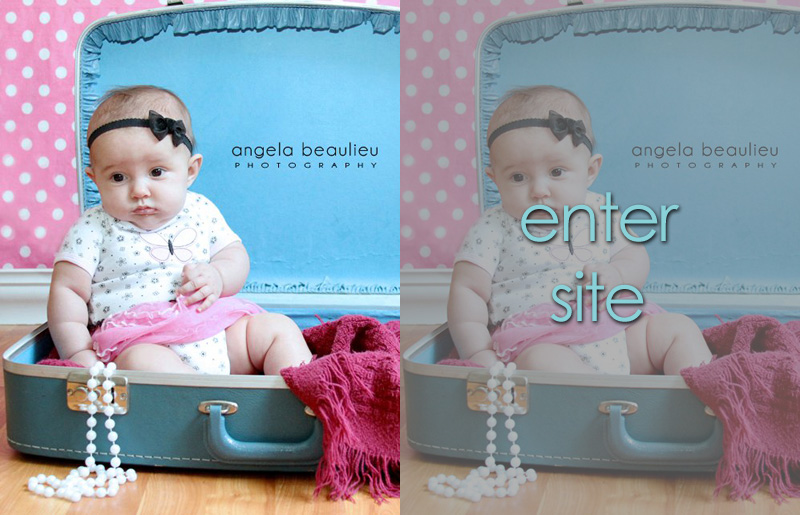
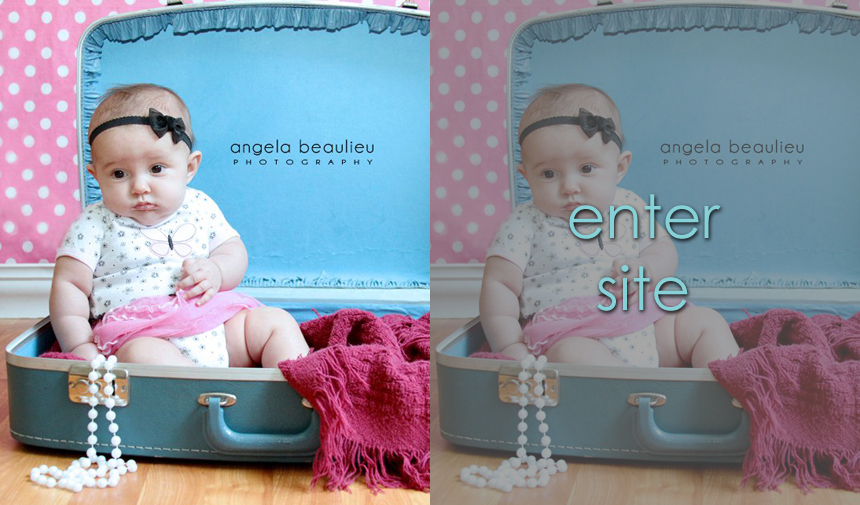
Finished session prices page styling, updated homepage images for proper width, removed Twitter widget from contact page, minor css changes site-wide.

diff --git a/master.css b/master.css
@@ -21,7 +21,7 @@ body { background:#fff; }
 #content.home #sub-content { float:left; background:#89d1d8; margin:0 auto; -moz-border-radius:10px; -webkit-border-radius:10px; border-radius:10px; padding: 10px; width: 890px; }
 #content #sub-content { float:left; background:#89d1d8; margin:0 auto; -moz-border-radius:10px; -webkit-border-radius:10px; border-radius:10px; padding: 10px; width: 890px; }
 #gallery { width:528px; margin:0 auto; }
-#copy { float:left; width:100%; background:#6AA0A7; -moz-border-radius:10px; -webkit-border-radius:10px; padding:15px; }
+#copy { float:left; background:#6AA0A7; -moz-border-radius:10px; -webkit-border-radius:10px; padding:15px; }
 body#blog #content { width:660px; float:left; }
 body#about-page #copy { width:560px; float:left; height:389px; }
 #sidebar { width:270px; padding:15px; float:right; background:#6AA0A7; -moz-border-radius:10px; -webkit-border-radius:10px; border-radius:10px; }
@@ -30,8 +30,8 @@ body#about-page #sidebar { width:259px; height:389px; }
 #footer { width:940px; margin: 0 auto 10px auto; clear:both; height:36px; }
 #content div.post { background:#2a2a2a; -moz-border-radius:10px; -webkit-border-radius:10px; border-radius:10px; padding:15px; margin-right:20px; margin-bottom:20px; float:left; width:610px; }
 #respond { background:#2a2a2a; float:left; -moz-border-radius:10px; -webkit-border-radius:10px; border-radius:10px; padding:15px; margin-right:20px; margin-top:20px; }
-.col-1, .col-2, .col-3, .col-4 { width:218px; float:left; padding:0 10px; border-left:1px solid #6F6F6F; min-height: 720px; }
-.col-4 { border-right:1px solid #6F6F6F; }
+.col-1, .col-2, .col-3, .col-4 { width:193px; float:left; padding:0 10px; border-left:1px solid #fff; min-height: 763px; }
+.col-4 { border-right:1px solid #fff; }
 #menu { width:821px; margin:0 auto; }
 
 /* Image Styles */
@@ -80,30 +80,31 @@ body#galleries-page.galleries #content h2 { float:none; }
 #copy h2 { color:#fff; font-family: "Century Gothic",Helvetica,arial,sans-serif; line-height: 23px; margin-bottom:6px; }
 p.footer { color: #bbb; float: right; padding: 20px 7px 0 0; text-align: right; }
 #sidebar h2 { color:#fff; }
-strong.author, span.asterisk, span.pink { color:#c94185; }
-span.price { color:#6198e0; }
-#copy h3 { color:#c94185; }
+strong.author, span.pink { color:#fff; }
+span.asterisk { color:#89d1d8; }
+span.price { color:#89d1d8; font-weight:bold; }
+#copy h3 { font-family:"Century Gothic", Helvetica, arial, sans-serif; color:#89d1d8; text-shadow:1px 1px #000; }
 #copy p { color:#000; }
 .entry p { color:#ccc; }
 h2.pagetitle { background:#2a2a2a; -moz-border-radius:10px; -webkit-border-radius:10px; border-radius:10px; padding:15px; margin-right:20px; margin-bottom:20px; }
 #content .post h2 { color:#6198e0; border-bottom:1px dotted #6198e0; text-decoration:none; }
 h3#comments { background:#2a2a2a; -moz-border-radius-topleft:10px; -webkit-border-top-left-radius:10px; -moz-border-radius-topright:10px; -webkit-border-top-right-radius:10px; padding:15px 15px 0 15px; margin-right:20px; color:#ccc; }
 #respond h3 { color:#ccc; }
-#copy ul { list-style:disc; list-style-position:inside; color:#ccc; font-weight:bold; }
-#copy li { text-indent:20px; font-weight:normal; }
+#copy ul { font-family:"Century Gothic", Helvetica, arial, sans-serif; list-style:disc; list-style-position:inside; color:#fff; font-weight:bold; }
+#copy li { font-size:14px; font-family:"Century Gothic", Helvetica, arial, sans-serif; text-indent:0px; font-weight:normal; }
 p.note { width:100%; float:left; }
 body#galleries-page #sub-content h2 { color:#fff; font-family: "Century Gothic",Helvetica,arial,sans-serif; line-height: 23px; margin-bottom:6px; }
 
 /* Contact Form Styles */
-#main form { display: block; width: 100%; padding: 25px 0 20px 0;}
+#main form { display: block; width: 508px; margin:0 auto; padding: 25px 0 20px 0;}
 #main form fieldset { display: block; position: relative; height: 20px; margin-bottom: 6px; border:none; padding:10px 0; }
-#main form fieldset div.errormessage { font-size:13px; color: #242424; background: #6198E0; padding: 0 8px; position: absolute; left: 515px; top:1px; height:34px; width:170px; }
+#main form fieldset div.errormessage { font-size:12px; line-height:32px; color: #fff; background: #6aa0a7; padding: 0 8px; position: absolute; left: 515px; top:1px; height:34px; width:170px; font-family: "Century Gothic",Helvetica,arial,sans-serif; }
 #main form fieldset.message { position: relative; height: 150px; margin-bottom: 8px; }
 #main form fieldset label { font-size: 22px; color:#646464; position: absolute; left: 0; top: 0; line-height: 36px; width: 90px; }
 #main form fieldset label.submitter { font-size: 1.5em; display: none; }
 #main form fieldset input { position: absolute; left: 95px; top: 0; line-height: 22px; height:24px; width: 400px; border: 1px solid #242424; padding: 5px; background-color: #fff; font:16px Georgia,Times,'Times New Roman',serif; color:#313131;}
-#main form fieldset input#submitter {font-size: 26px; background:#c94185; border:none; padding:5px; color:#fff; cursor:pointer; width:146px; height:42px; float:left; }
-#main form fieldset input#submitter:hover {font-size: 26px; background:#6198E0; border:none; padding:5px; color:#fff; cursor:pointer; width:146px; height:42px; float:left; }
+#main form fieldset input#submitter {font-size: 26px; background:#6aa0a7; border:none; padding:5px; color:#fff; cursor:pointer; width:146px; height:42px; float:left; }
+#main form fieldset input#submitter:hover {font-size: 26px; background:#4e8890; border:none; padding:5px; color:#fff; cursor:pointer; width:146px; height:42px; float:left; }
 #main form fieldset textarea { position: absolute; left: 95px; top: 0; width: 400px; height: 145px; border: 1px solid #383531; padding: 5px; background-color: #fff; font: 16px Georgia,Times,'Times New Roman',serif; color:#313131; }
 #main form fieldset input:focus, form fieldset textarea:focus { border: 1px solid #193441; } /* Needs emulation in IE 6 and testing in IE 7 */
 #main p.success { color:#2d8a43; font-weight: bolder; }
@@ -125,10 +126,10 @@ a.modelmayhem:hover { background-position:0 2px; }
 a.mail { background:url(images/email_32.png) no-repeat 0 -32px; }
 a.mail:hover { background-position:0 2px; }
 
-#content #sub-content a.facebook-galleries { background:url(images/facebook-galleries.jpg) no-repeat 0 0; width:390px; height:505px; float:left; -moz-border-radius:10px; -webkit-border-radius:10px; border-radius:10px; border:5px solid #fff; }
-#content #sub-content a.facebook-galleries:hover { background-position:-400px 0; }
-#content #sub-content a.enter-site { background:url(images/enter-site.jpg) no-repeat 0 0; width:390px; height:505px; float:left; margin-right:9px; -moz-border-radius:10px; -webkit-border-radius:10px; border-radius:10px; border:5px solid #fff; }
-#content #sub-content a.enter-site:hover { background-position:-400px 0; }
+#content #sub-content a.facebook-galleries { background:url(images/facebook-galleries.jpg) no-repeat 0 0; width:430px; height:505px; float:left; -moz-border-radius:10px; -webkit-border-radius:10px; border-radius:10px; border:5px solid #fff; }
+#content #sub-content a.facebook-galleries:hover { background-position:-430px 0; }
+#content #sub-content a.enter-site { background:url(images/enter-site.jpg) no-repeat 0 0; width:430px; height:505px; float:left; margin-right:10px; -moz-border-radius:10px; -webkit-border-radius:10px; border-radius:10px; border:5px solid #fff; }
+#content #sub-content a.enter-site:hover { background-position:-430px 0; }
 
 /* Blog Styles */
 body#blog #sidebar ul { list-style:none; text-indent:0; }
@@ -152,9 +153,9 @@ body.single .navigation { color:#c94185; float:left; width:610px; -moz-border-ra
 #content #gallery a img { border:5px solid #fff; }
 #content #gallery a { float:left; display:block; color:#666; padding:0 20px 0 20px; margin-bottom:20px; text-decoration:none; outline-style:none; }
 #content #gallery a:hover { color:#58365e; outline-style:none; }
-#content #gallery a:hover img { border:5px solid #c94185; }
-#content #gallery span.caption { font-size:10px; text-transform:uppercase; padding:0; display:block; }
-#content #gallery a:hover span.caption { font-size:10px; text-transform:uppercase; padding:0; display:block; color:#c94185; }
+#content #gallery a:hover img { border:5px solid #6AA0A7; }
+#content #gallery span.caption { font-size:10px; text-transform:uppercase; padding:0; display:block; text-align:center; }
+#content #gallery a:hover span.caption { font-size:10px; text-transform:uppercase; padding:0; display:block; color:#6AA0A7; }
 body#home-page #content span.caption { font-size:10px; text-transform:uppercase; padding:0; display:none; float:left; }
 body#home-page #content .panel-one a:hover span.caption { font-size:10px; text-transform:uppercase; padding:0; display:block; color:#c94185; position:absolute; bottom:-20px; left:0; }
 body#home-page #content .panel-two a:hover span.caption, body#home-page #content .panel-three a:hover span.caption, body#home-page #content .panel-four a:hover span.caption, body#home-page #content .panel-five a:hover span.caption { font-size:10px; text-transform:uppercase; padding:0; display:block; color:#c94185; position:absolute; bottom:-20px; left:10px; }

diff --git a/session-prices/index.php b/session-prices/index.php
@@ -19,26 +19,28 @@ And I need this to be someplace on the pricing page:
 
 -->
 <?php require('../header.php') ?>
-	<div id="content">
-		<div id="copy">
+	<div id="wrapper-top"></div>
+		<div id="content">
+			<div id="sub-content">
+				<div id="copy">
 		<h2>Session Prices</h2>
 			<div class="col-1">
 				<h3>Wedding:</h3> 
 			
-				<ul>Jack & Rose:
+				<ul>Jack &amp; Rose:
 				    <li>Planning Session</li>
 				    <li>6 Hours Coverage<span class="asterisk">*</span></li>
-				    <li>DVD Of Images (with print release)<span class="asterisk">*</span></li>
+				    <li>DVD Of Images<br />(with print release)<span class="asterisk">*</span></li>
 				    <li>Time/Travel/Talent<span class="asterisk">*</span></li>
 				</ul>
 				
 				<p>Package: <span class="price">$850.00</span></p>
 				
-				<ul>Romeo & Juliet:
+				<ul>Romeo &amp; Juliet:
 				    <li>Planning Session</li>
 					<li>Engagement Session</li>
 				    <li>8+ Hours Coverage<span class="asterisk">*</span></li>
-				    <li>DVD Of Images (with print release)<span class="asterisk">*</span></li>
+				    <li>DVD Of Images<br />(with print release)<span class="asterisk">*</span></li>
 				    <li>Time/Travel/Talent<span class="asterisk">*</span></li>
 				</ul>
 				
@@ -48,10 +50,10 @@ And I need this to be someplace on the pricing page:
 								
 				<h3>Engagement:</h3>
 				<ul>
-					<li>On location up to 2 hours</li>
+					<li>On location up to 2 hrs</li>
 				  	<li>Unlimited outfits/poses</li>
 				  	<li>Up to 2 locations (optional)</li>
-					<li>Post processing/retouching</li>
+					<li>Post process/retouch</li>
 					<li>30 images on cd</li>
 					<li>Time/travel/talent</li>
 				</ul>
@@ -62,10 +64,10 @@ And I need this to be someplace on the pricing page:
 			<div class="col-2">
 				<h3>Maternity:</h3>
 				<ul>
-					<li>On location and/or studio time up to 2 hours</li>
+					<li>On location and/or<br />studio time up to 2 hours</li>
 				  	<li>Unlimited outfits/poses</li>
 				  	<li>Up to 2 locations (optional)</li>
-					<li>Post processing/retouching</li>
+					<li>Post process/retouch</li>
 					<li>30 images on cd</li>
 				</ul>
 				
@@ -76,84 +78,86 @@ And I need this to be someplace on the pricing page:
 				<h3>Newborn:</h3>
 				
 				<ul>
-				  <li>On location and/or studio time up to 4 hours (newborns take time to work with)</li>
+				  <li>On location and/or<br />studio time up to 4 hours<br />(newborns take time to work with)</li>
 				  <li>Unlimited outfits/poses</li>
-				  <li>Post processing/retouching</li>
+				  <li>Post process/retouch</li>
 				  <li>20 images on cd</li>
 				</ul>
 				
 				<p>Package: <span class="price">$200.00</span></p>
 				
-				<p><span class="asterisk">***</span>Newborns sessions can last up to 4 or more hours. There needs to be plenty of time for feedings, naps, comforting, changing and so on.</p>
+				<p><span class="asterisk">***</span>Newborn sessions can last up to 4 hours or more. There needs to be plenty of time for feedings, naps, comforting, changing and so on.</p>
 				
-			</div>
-			<div class="col-3">
 				<h3>Family:</h3>
 
 				<ul>
-					<li>On location up to 2 hours</li>
+					<li>On location up to 2 hrs</li>
 					<li>Unlimited outfits/poses</li>
 					<li>Up to 2 locations (optional)</li>
-					<li>Post processing/retouching</li>
+					<li>Post process/retouch</li>
 					<li>30 images on cd</li>
 					<li>Time/travel/talent</li>
 				</ul>
 
-				<p>Package: <span class="price">$125</span> | 6+ members: <span class="price">$150</span></p>
-
+				<p>Package: <span class="price">$125</span><br />6+ members: <span class="price">$150</span></p>
+				
+			</div>
+			<div class="col-3">
+				
 				<h3>Children ages 5-12:</h3>
 
 				<ul>
-					<li>On location up to 2 hours</li>
+					<li>On location up to 2 hrs</li>
 					<li>Unlimited outfits/poses</li>
 					<li>Up to 2 locations (optional)</li>
-					<li>Post processing/retouching</li>
+					<li>Post process/retouch</li>
 					<li>30 images on cd</li>
 					<li>Time/travel/talent</li>
 				</ul>
 				
-				<p>Package: <span class="price">$125</span> (one child) | Add <span class="price">$25</span> for each additional child.</p>
+				<p>Package: <span class="price">$125</span> (one child)<br />Add <span class="price">$25</span> for each additional child.</p>
 				
 				<h3>Babies 3mos-18mos:</h3>
 				<ul>
-					<li>On location and/or studio time up to 2 hours</li>
+					<li>On location and/or<br />studio time up to 2 hours</li>
 					<li>Unlimited outfits/poses</li>
 					<li>Up to 2 locations (optional)</li>
-					<li>Post processing/retouching</li>
+					<li>Post process/retouch</li>
 					<li>20 images on cd</li>
 				</ul>
 				
-				<p>Package: <span class="price">$150</span> | Add <span class="price">$25</span> for each additional child.</p>
+				<p>Package: <span class="price">$150</span><br />Add <span class="price">$25</span> for each additional child.</p>
+				
+				<h3>Toddlers 18mos-3yrs:</h3>
+				<ul>
+					<li>On location and/or<br />studio time up to 2 hours</li>
+					<li>Unlimited outfits/poses</li>
+					<li>Up to 2 locations (optional)</li>
+					<li>Post process/retouch</li>
+					<li>20 images on cd</li>
+				</ul>
+				<p>Package: <span class="price">$150</span><br />Add <span class="price">$25</span> for each additional child.</p>
 				
 			</div>
 			<div class="col-4">
-				<h3>Toddlers 18mos-3yrs:</h3>
-				<ul>
-					<li>On location and/or studio time up to 2 hours</li>
-					<li>Unlimited outfits/poses</li>
-					<li>Up to 2 locations (optional)</li>
-					<li>Post processing/retouching</li>
-					<li>20 images on cd</li>
-				</ul>
-				<p>Package: <span class="price">$150</span> | Add <span class="price">$25</span> for each additional child.</p>
 
 				<h3>Tiny people 3yrs-5yrs:</h3>
 				<ul>
-					<li>On location and/or studio time up to 2 hours</li>
+					<li>On location and/or<br />studio time up to 2 hours</li>
 					<li>Unlimited outfits/poses</li>
 					<li>Up to 2 locations (optional)</li>
-					<li>Post processing/retouching</li>
+					<li>Post process/retouch</li>
 					<li>20 images on cd</li>
 				</ul>
-				<p>Package: <span class="price">$125</span> | Add <span class="price">$25</span> for each additional child.</p>
+				<p>Package: <span class="price">$125</span><br />Add <span class="price">$25</span> for each additional child.</p>
 				
 				<h3>Cake Smash:</h3>
 				
 				<ul>
-					<li>On location and/or studio time up to 2 hours</li>
+					<li>On location and/or<br />studio time up to 2 hours</li>
 					<li>Unlimited outfits/poses</li>
 					<li>Up to 2 locations (optional)</li>
-					<li>Post processing/retouching</li>
+					<li>Post process/retouch</li>
 					<li>20 images on cd</li>
 					<li>Cake/cupcakes/balloons</li>
 				</ul>
@@ -169,6 +173,9 @@ And I need this to be someplace on the pricing page:
 			<span class="asterisk">**</span> All weddings require a wedding contract in order for booking. 25% of the wedding package price is due at the signing of the contract and is a NON REFUNDABLE RETAINER.<br /><br />
 			<span class="asterisk">**</span> Session fees are NON REFUNDABLE but are transferable up to one time.
 			</p>
+			</div>
 		</div>
 	</div>
+<?php require('../nav.php') ?>
+<div id="wrapper-bottom"></div>
 <?php require('../footer.php') ?>

diff --git a/nav.php b/nav.php
@@ -14,7 +14,7 @@ $imagepath = $basepath.'/images/';
 		<h2><a <?php if ($page == 'home') { echo 'class="active"'; } ?> href="<?php echo $basepath; ?>/">home</a> | </h2>
 		<h2><a <?php if ($page == 'about') { echo 'class="active"'; } ?> href="<?php echo $basepath; ?>/about">about</a> | </h2>
 		<h2><a <?php if ($page == 'galleries') { echo 'class="active"'; } elseif ($section == 'galleries') { echo 'class="active"'; } ?> href="<?php echo $basepath; ?>/galleries">galleries</a> | </h2>
-		<h2><a <?php if ($page == 'session') { echo 'class="active"'; } ?> href="<?php echo $basepath; ?>/#">session prices</a> | </h2>
+		<h2><a <?php if ($page == 'session') { echo 'class="active"'; } ?> href="<?php echo $basepath; ?>/session-prices">session prices</a> | </h2>
 		<h2><a href="<?php echo $basepath; ?>/#">blog</a> | </h2>
 		<h2><a <?php if ($page == 'contact') { echo 'class="active"'; } ?> href="<?php echo $basepath; ?>/contact">contact</a> | </h2>
 		<h2><a <?php if ($page == 'special') { echo 'class="active"'; } ?> href="<?php echo $basepath; ?>/special-thanks">special thanks</a></h2>

diff --git a/contact/index.php b/contact/index.php
@@ -83,7 +83,9 @@
 	
 		<p>Thank you for visiting my site! If you have any inquiries, comments or just want to get in touch, please use the form here. I strive to answer all emails within 24 hours of receiving them. You may also email me <a href="mailto:info@angelabeaulieuphoto.com">directly</a> if you'd like.</p>
 	
-	<script src="http://widgets.twimg.com/j/2/widget.js"></script>
+	<!-- Twitter Widget is commented out per client's request. Leaving here in case the client changes their mind and wants it back. -->
+	
+	<!-- <script src="http://widgets.twimg.com/j/2/widget.js"></script>
 	<script>
 	new TWTR.Widget({
 	  version: 2,
@@ -113,7 +115,7 @@
 	    behavior: 'default'
 	  }
 	}).render().setUser('angbphotography').start();
-	</script>
+	</script> -->
 
 	<form action="#" method="post" accept-charset="utf-8" class="validate">
 				<fieldset>
